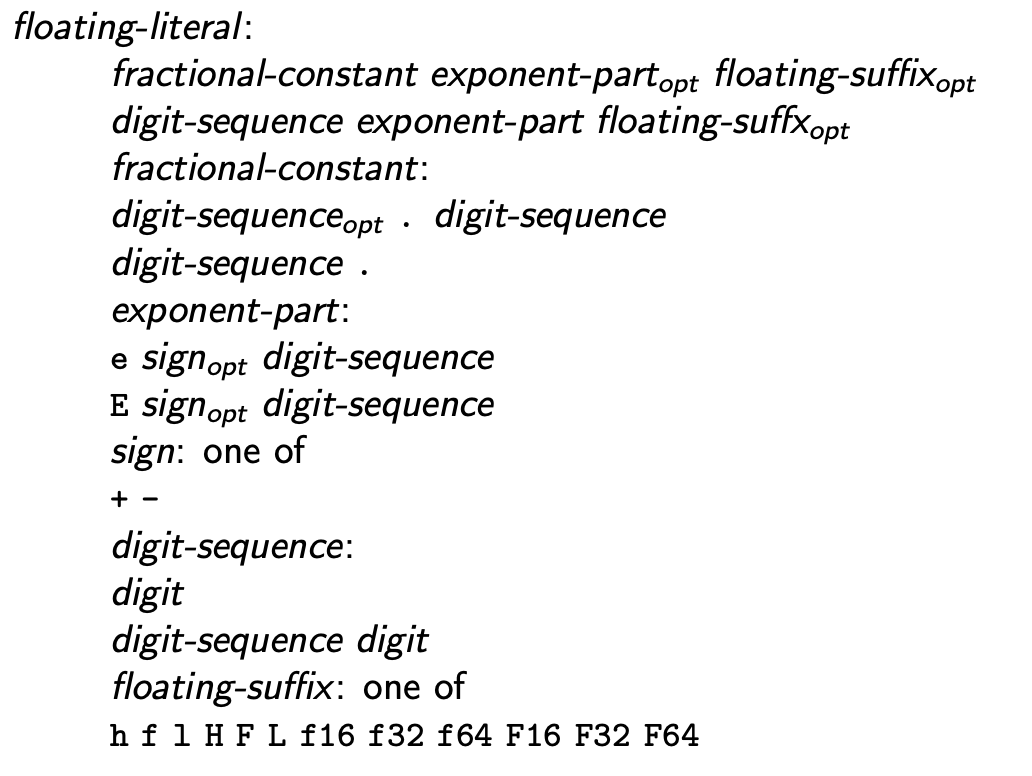
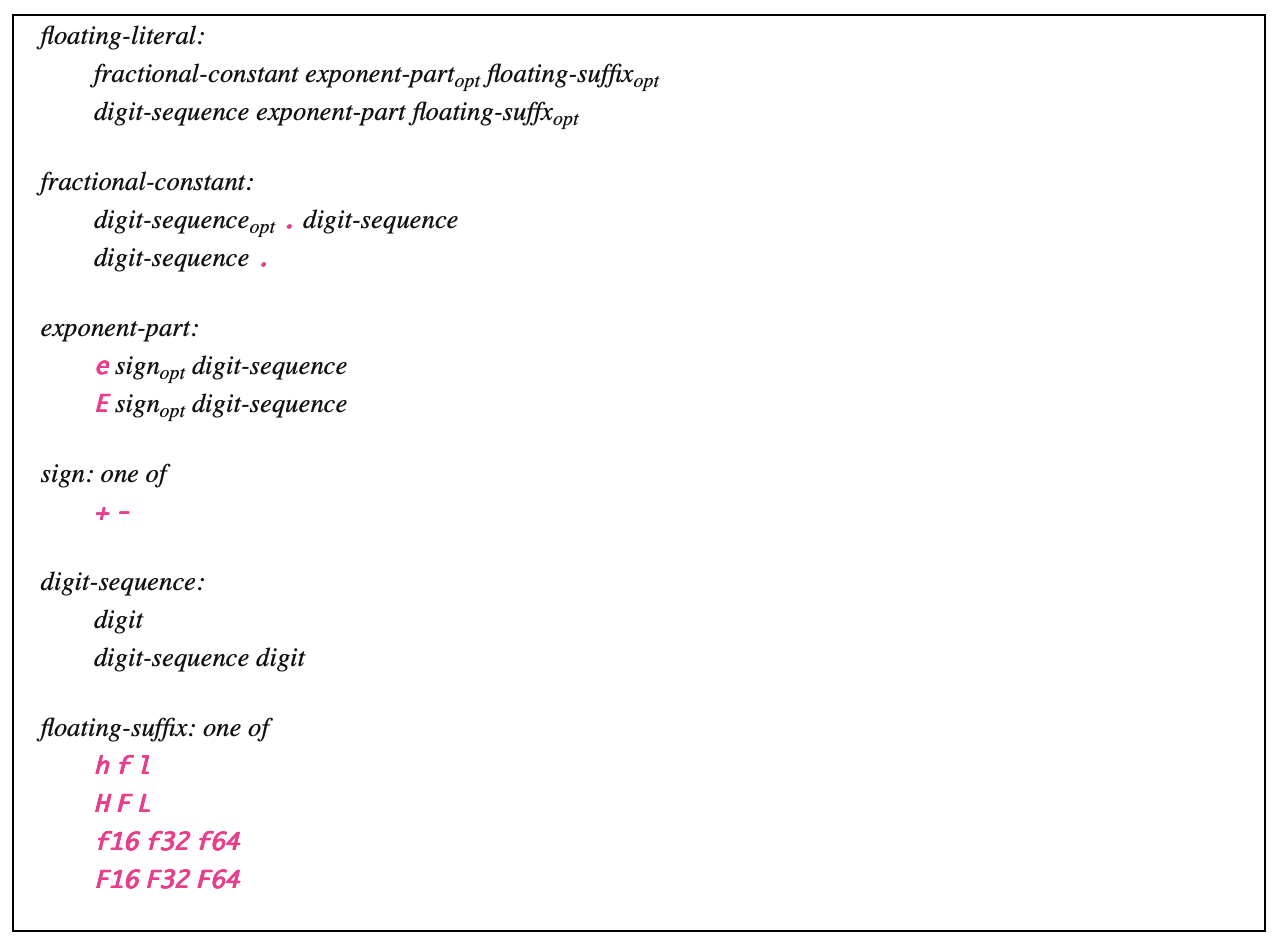
Fix latex rendering and update images

Changed region(s): [[0.0, 0.0, 0.9922, 0.9897], [0.4031, 0.2474, 0.6512, 0.3093]]

diff --git a/proposals/0002-conforming-literals.md b/proposals/0002-conforming-literals.md
@@ -269,7 +269,7 @@ users to assist in identifying behavior changes.
   floating-literal\br
   string-literal\br
   boolean-literal\br
-  vector-literal\br
+  vector-literal
 \end{grammar}
 ```
 
@@ -279,41 +279,41 @@ users to assist in identifying behavior changes.
 
 ```latex
 \begin{grammar}
-\define{integer-literal}\br
+  \define{integer-literal}\br
   decimal-literal \opt{integer-suffix}\br
   octal-literal \opt{integer-suffix}\br
-  hexadecimal-literal \opt{integer-suffix}\br
+  hexadecimal-literal \opt{integer-suffix}
 
   \define{decimal-literal}\br
   nonzero-digit\br
-  decimal-literal digit\br
+  decimal-literal digit
 
   \define{octal-literal}
   \terminal{0}\br
-  octal-literal octal-digit\br
+  octal-literal octal-digit
 
   \define{hexadecimal-literal}\br
   \terminal{0x} hexadecimal-digit\br
   \terminal{0X} hexadecimal-digit\br
-  hexadecimal-literal hexadecimal-digit\br
+  hexadecimal-literal hexadecimal-digit
 
   \define{nonzero-digit} \textnormal{one of}\br
-  \terminal{1 2 3 4 5 6 7 8 9}\br
+  \terminal{1 2 3 4 5 6 7 8 9}
 
   \define{octal-digit} \textnormal{one of}\br
-  \terminal{0 1 2 3 4 5 6 7}\br
+  \terminal{0 1 2 3 4 5 6 7}
 
   \define{hexadecimal-digit} \textnormal{one of}\br
   \terminal{0 1 2 3 4 5 6 7 8 9}\br
   \terminal{a b c d e f}\br
-  \terminal{A B C D E F}\br
+  \terminal{A B C D E F}
 
   \define{integer-suffix}\br
   unsigned-suffix \opt{long-suffix}\br
-  long-suffix \opt{unsigned-suffix}\br
+  long-suffix \opt{unsigned-suffix}
 
   \define{unsigned-suffix} \textnormal{one of}\br
-  \terminal{u U}\br
+  \terminal{u U}
 
   \define{long-suffix} \textnormal{one of}\br
   \terminal{l L}
@@ -350,22 +350,27 @@ An implementation may support the integer suffixes `ll` and
 \begin{grammar}
   \define{floating-literal}\br
   fractional-constant \opt{exponent-part} \opt{floating-suffix}\br
-  digit-sequence exponent-part \opt{floating-suffx}\br
+  digit-sequence exponent-part \opt{floating-suffx}
+
   \define{fractional-constant}\br
   \opt{digit-sequence} \texttt{.} digit-sequence\br
-  digit-sequence \texttt{.}\br
+  digit-sequence \texttt{.}
+
   \define{exponent-part}\br
   \texttt{e} \opt{sign} digit-sequence\br
-  \texttt{E} \opt{sign} digit-sequence\br
+  \texttt{E} \opt{sign} digit-sequence
+
   \define{sign} \textnormal{one of}\br
-  \texttt{+} \texttt{-}\br
+  \texttt{+} \texttt{-}
+
   \define{digit-sequence}\br
   digit\br
-  digit-sequence digit\br
+  digit-sequence digit
+
   \define{floating-suffix} \textnormal{one of}\br
-  \texttt{h} \texttt{f} \texttt{l}
-  \texttt{H} \texttt{F} \texttt{L}
-  \texttt{f16} \texttt{f32} \texttt{f64}
+  \texttt{h} \texttt{f} \texttt{l}\br
+  \texttt{H} \texttt{F} \texttt{L}\br
+  \texttt{f16} \texttt{f32} \texttt{f64}\br
   \texttt{F16} \texttt{F32} \texttt{F64}
 \end{grammar}
 ```